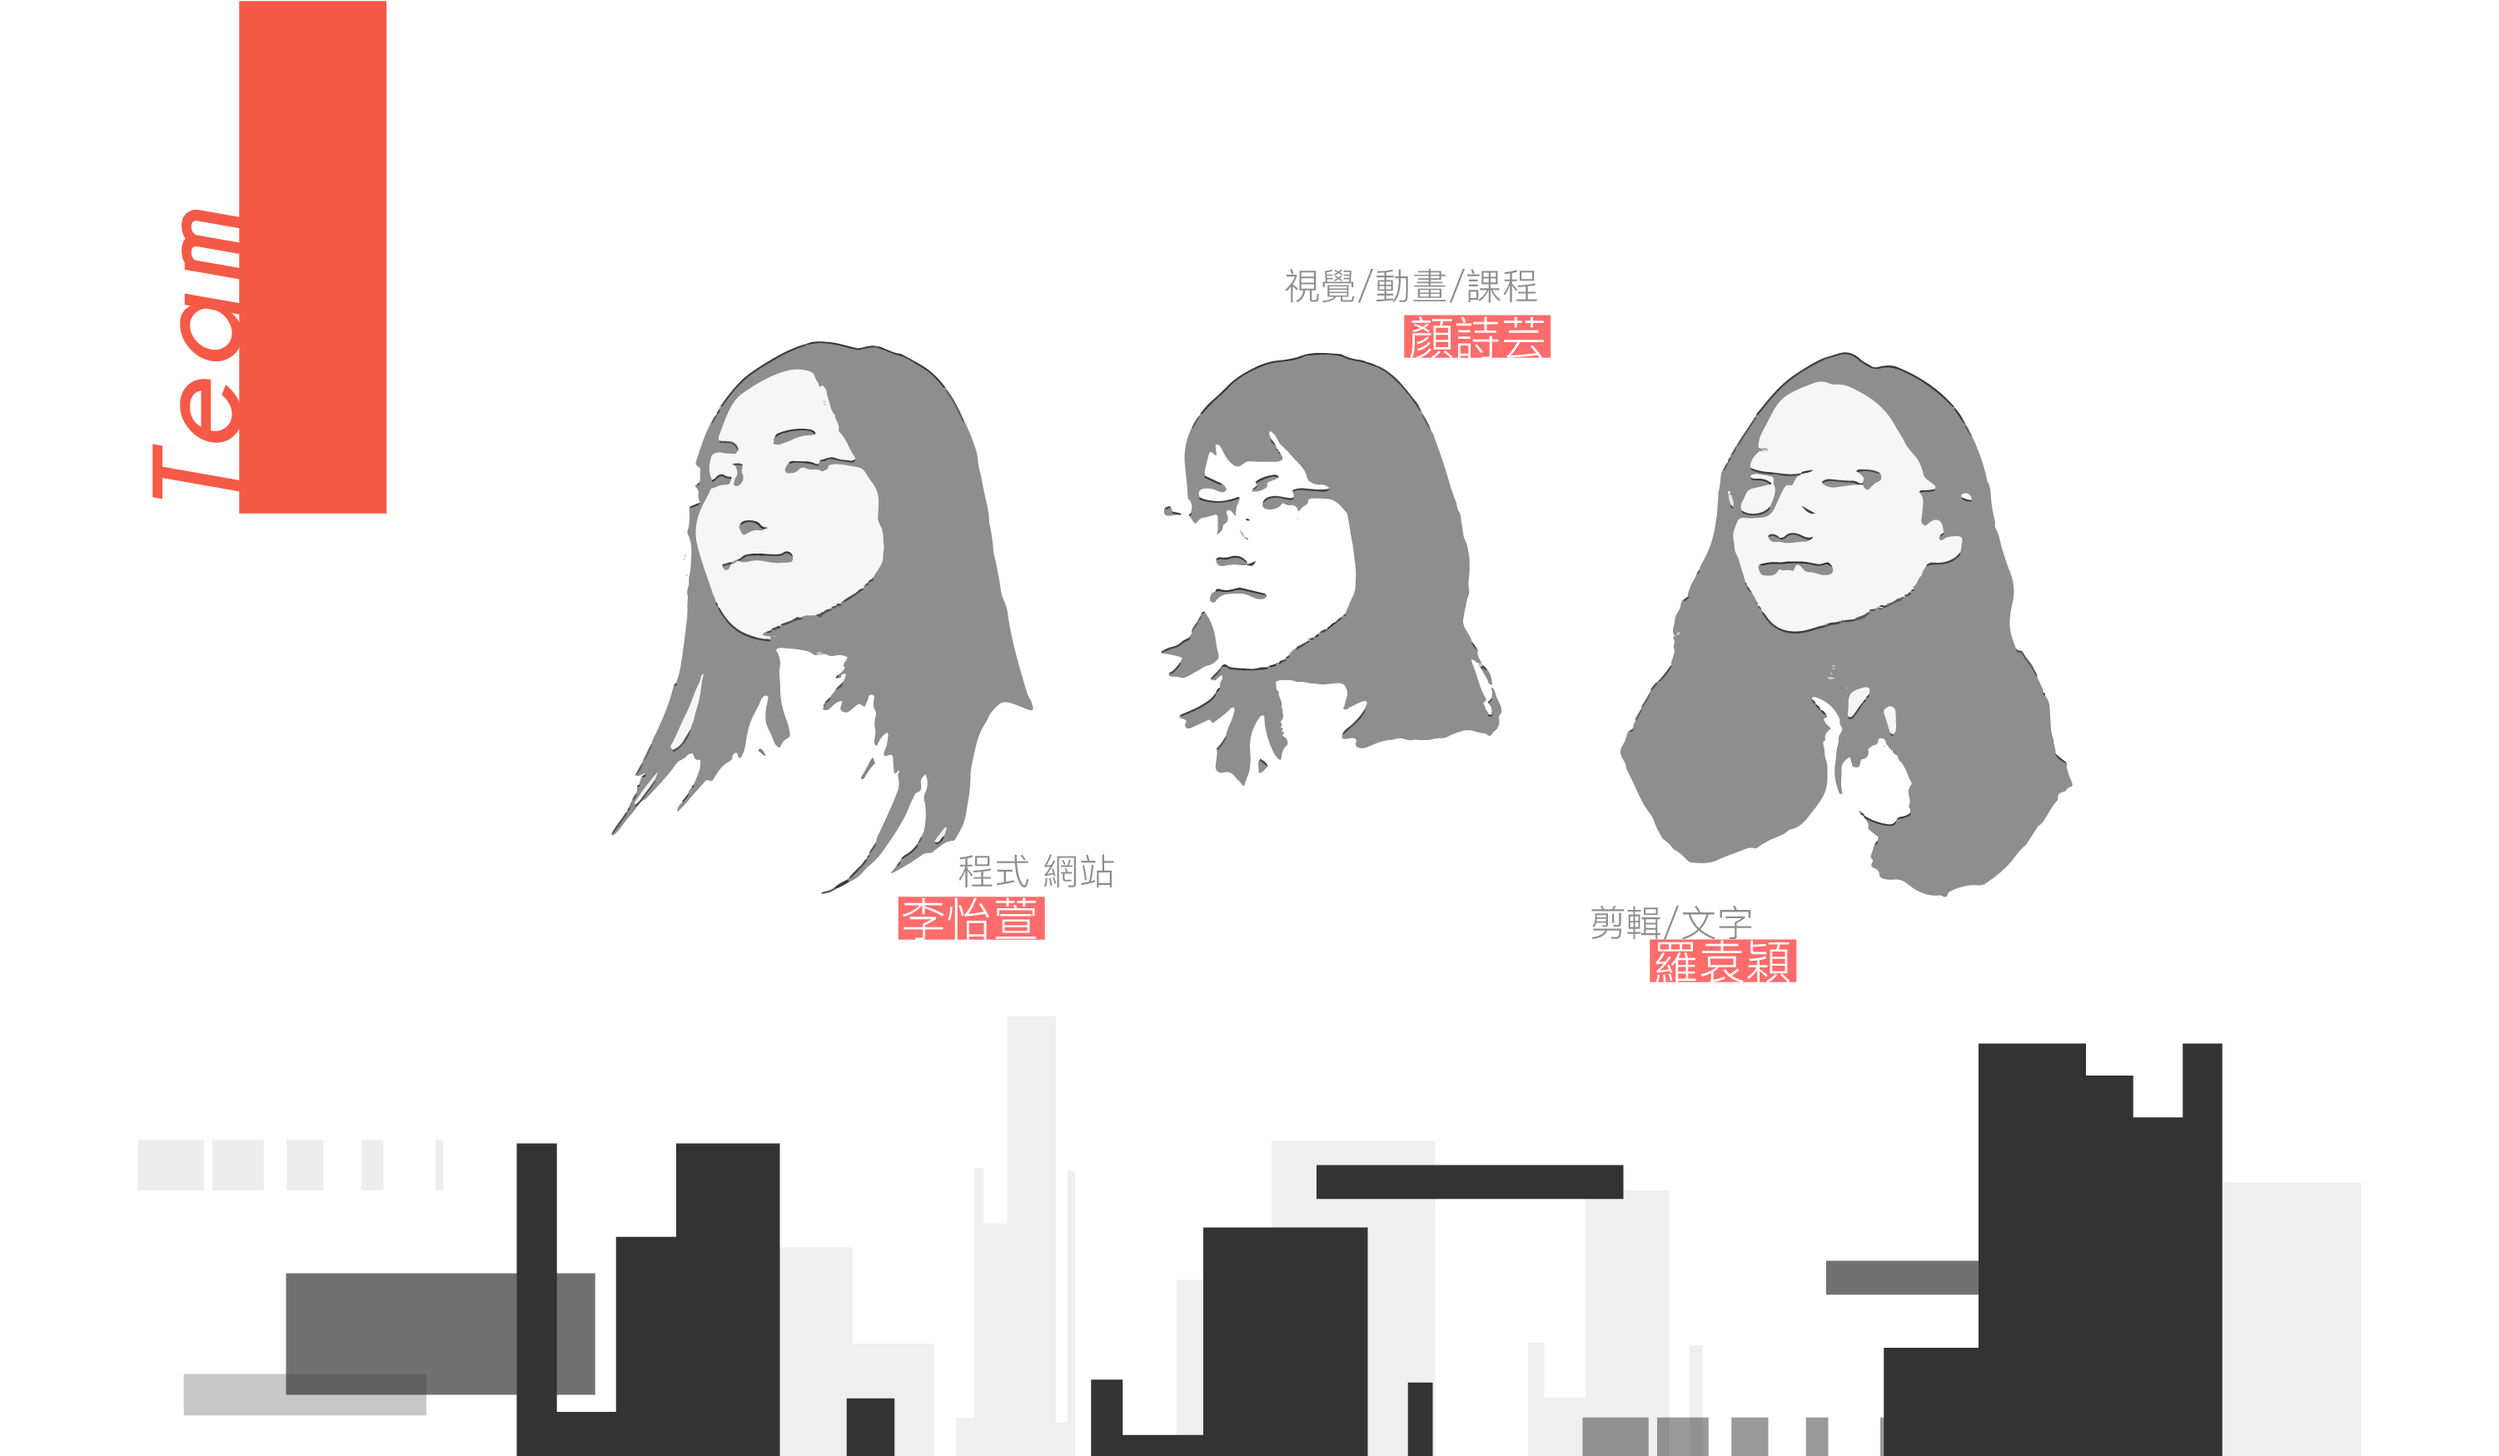
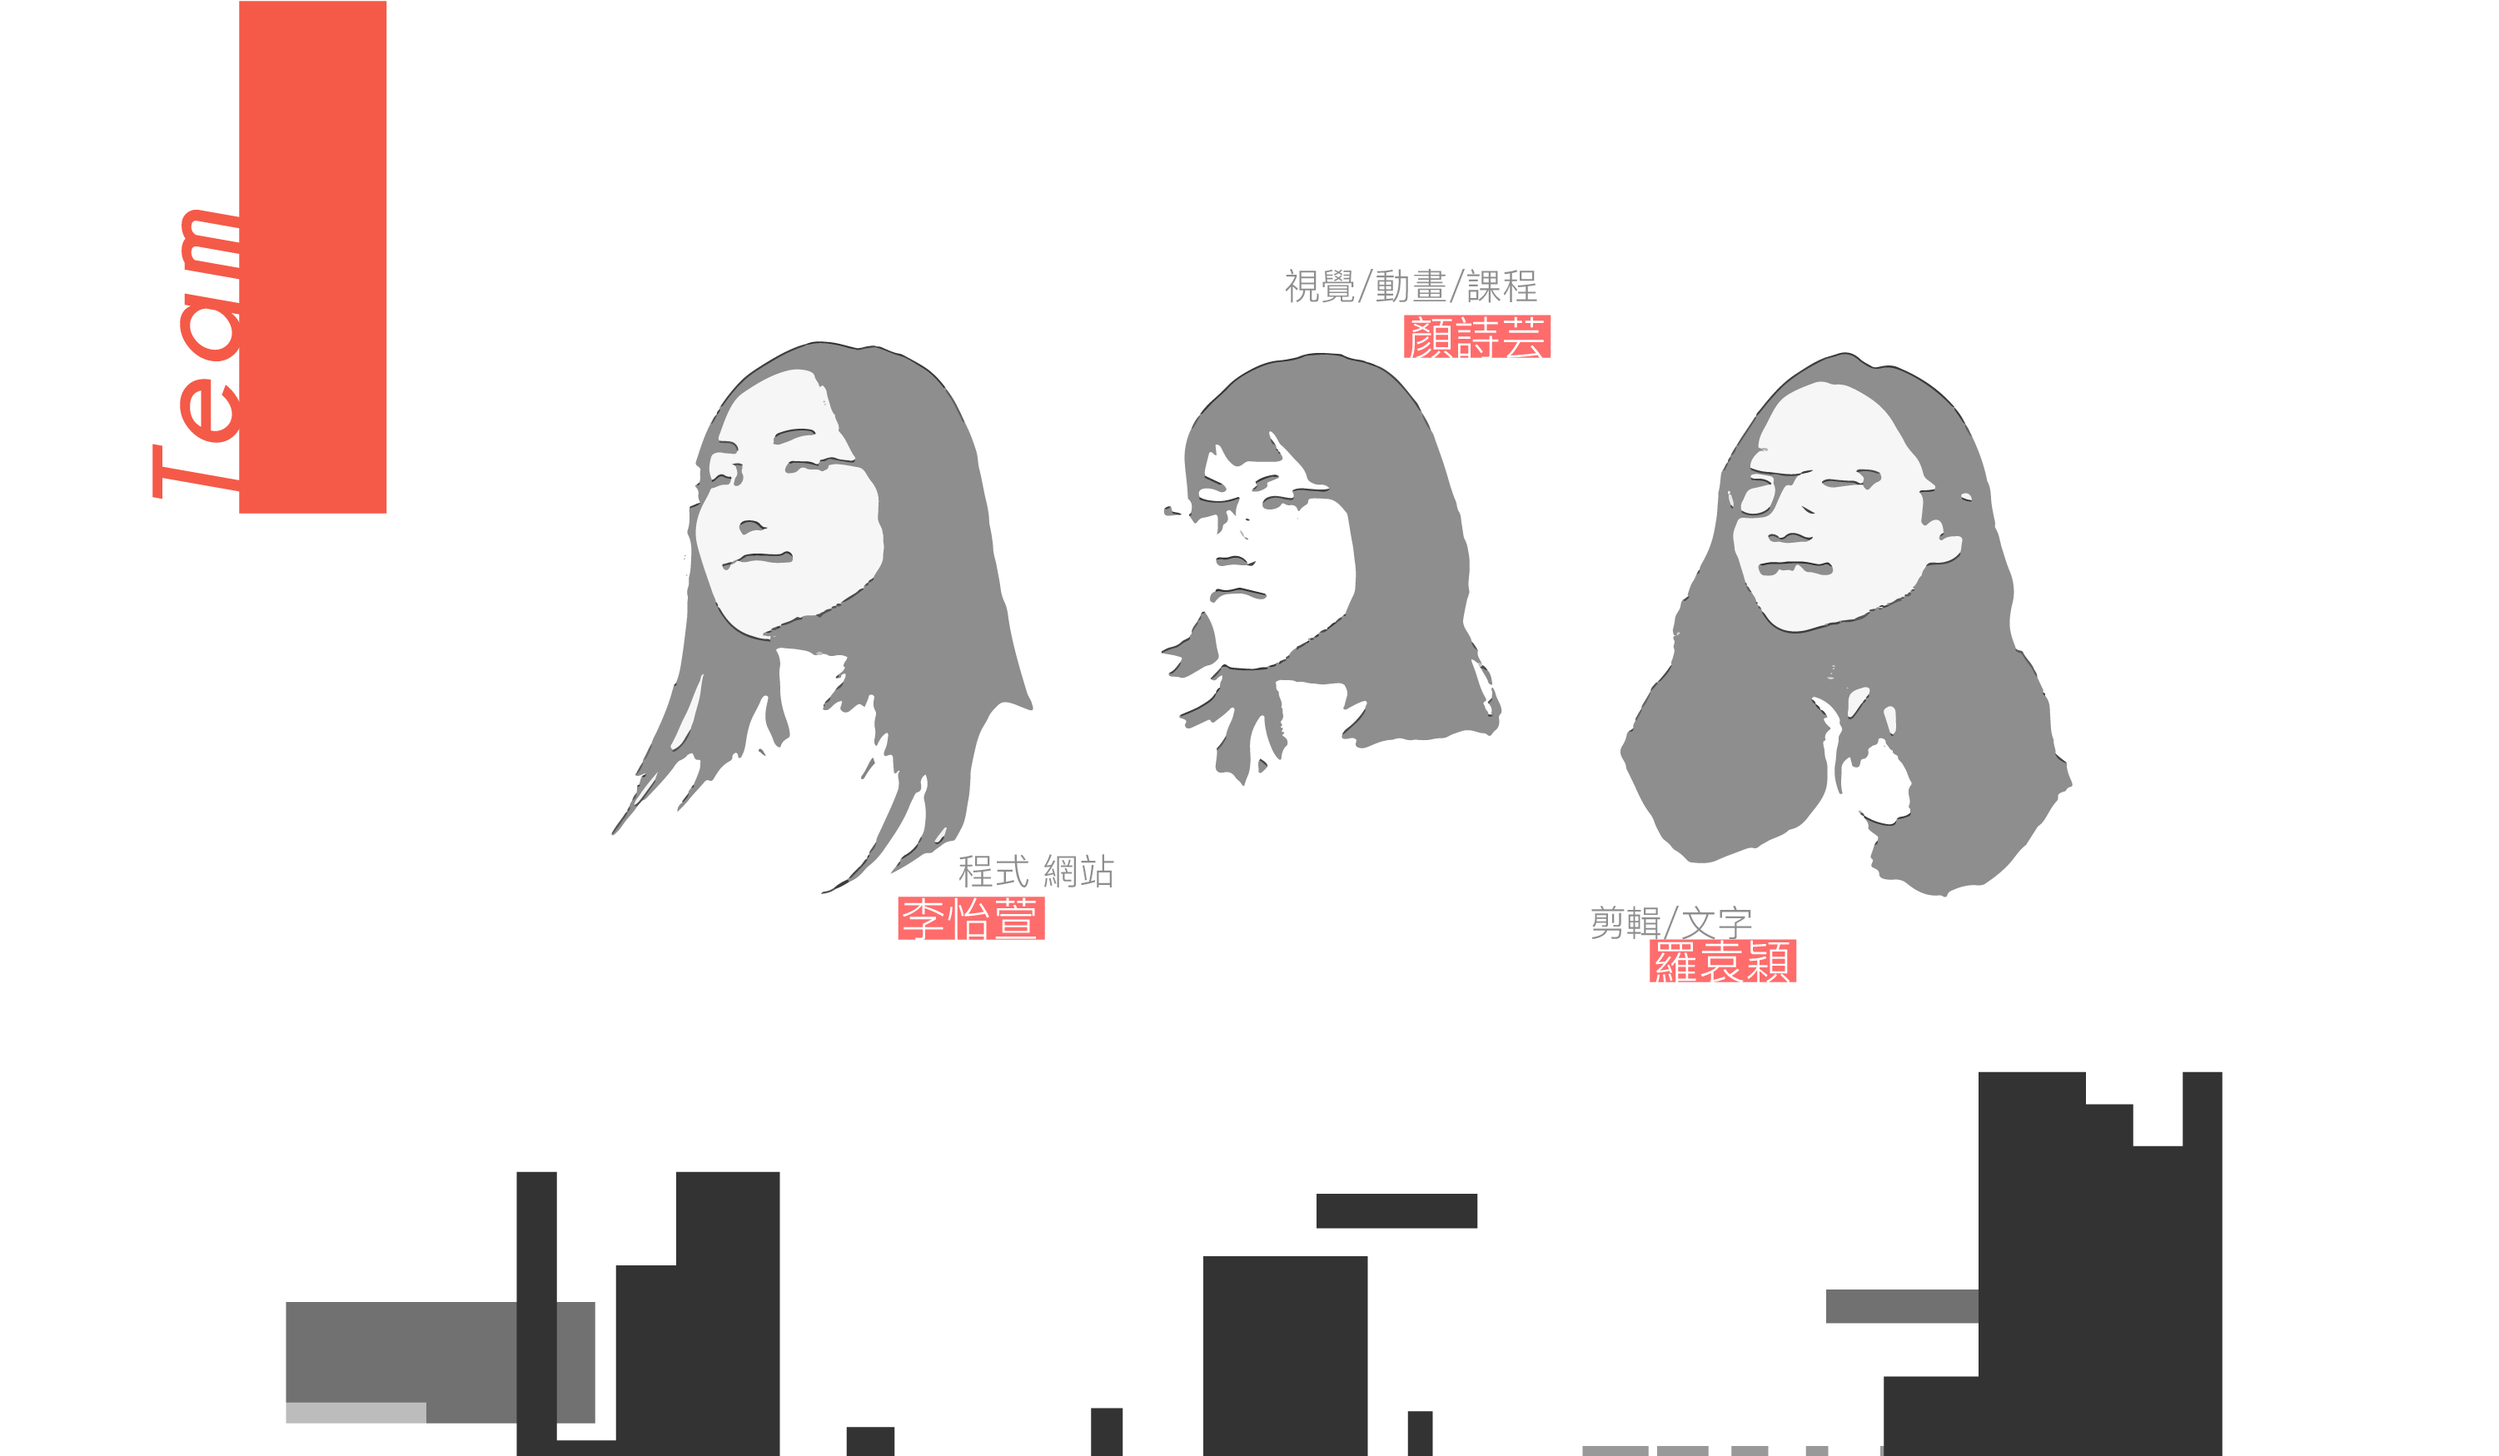
yixita

diff --git a/index.html b/index.html
@@ -80,7 +80,7 @@
 				<div class="tabscontent__item">
 					<div class="column">
 						
-					<img src="../2018/MAIN/img/aips2-17.png" width="100%;" height="100%;" alt=""/>
+					<img src="../2018/MAIN/img/aips2-17.png" class="Team" width="80%;"  alt=""/>
 					</div>
 				</div>
 				<div class="tabscontent__item">

diff --git a/MAIN/css/demo.css b/MAIN/css/demo.css
@@ -654,6 +654,13 @@ a:focus {
 	padding-left: 10%;
 	padding-right: 10%: 
 }
+.Team{
+ position: absolute;
+    top: 0;
+    left: 60px;
+	padding-left: 10%;
+	padding-right: 10%: 
+}
 .about{
 	position: absolute;
     top: -15%;
